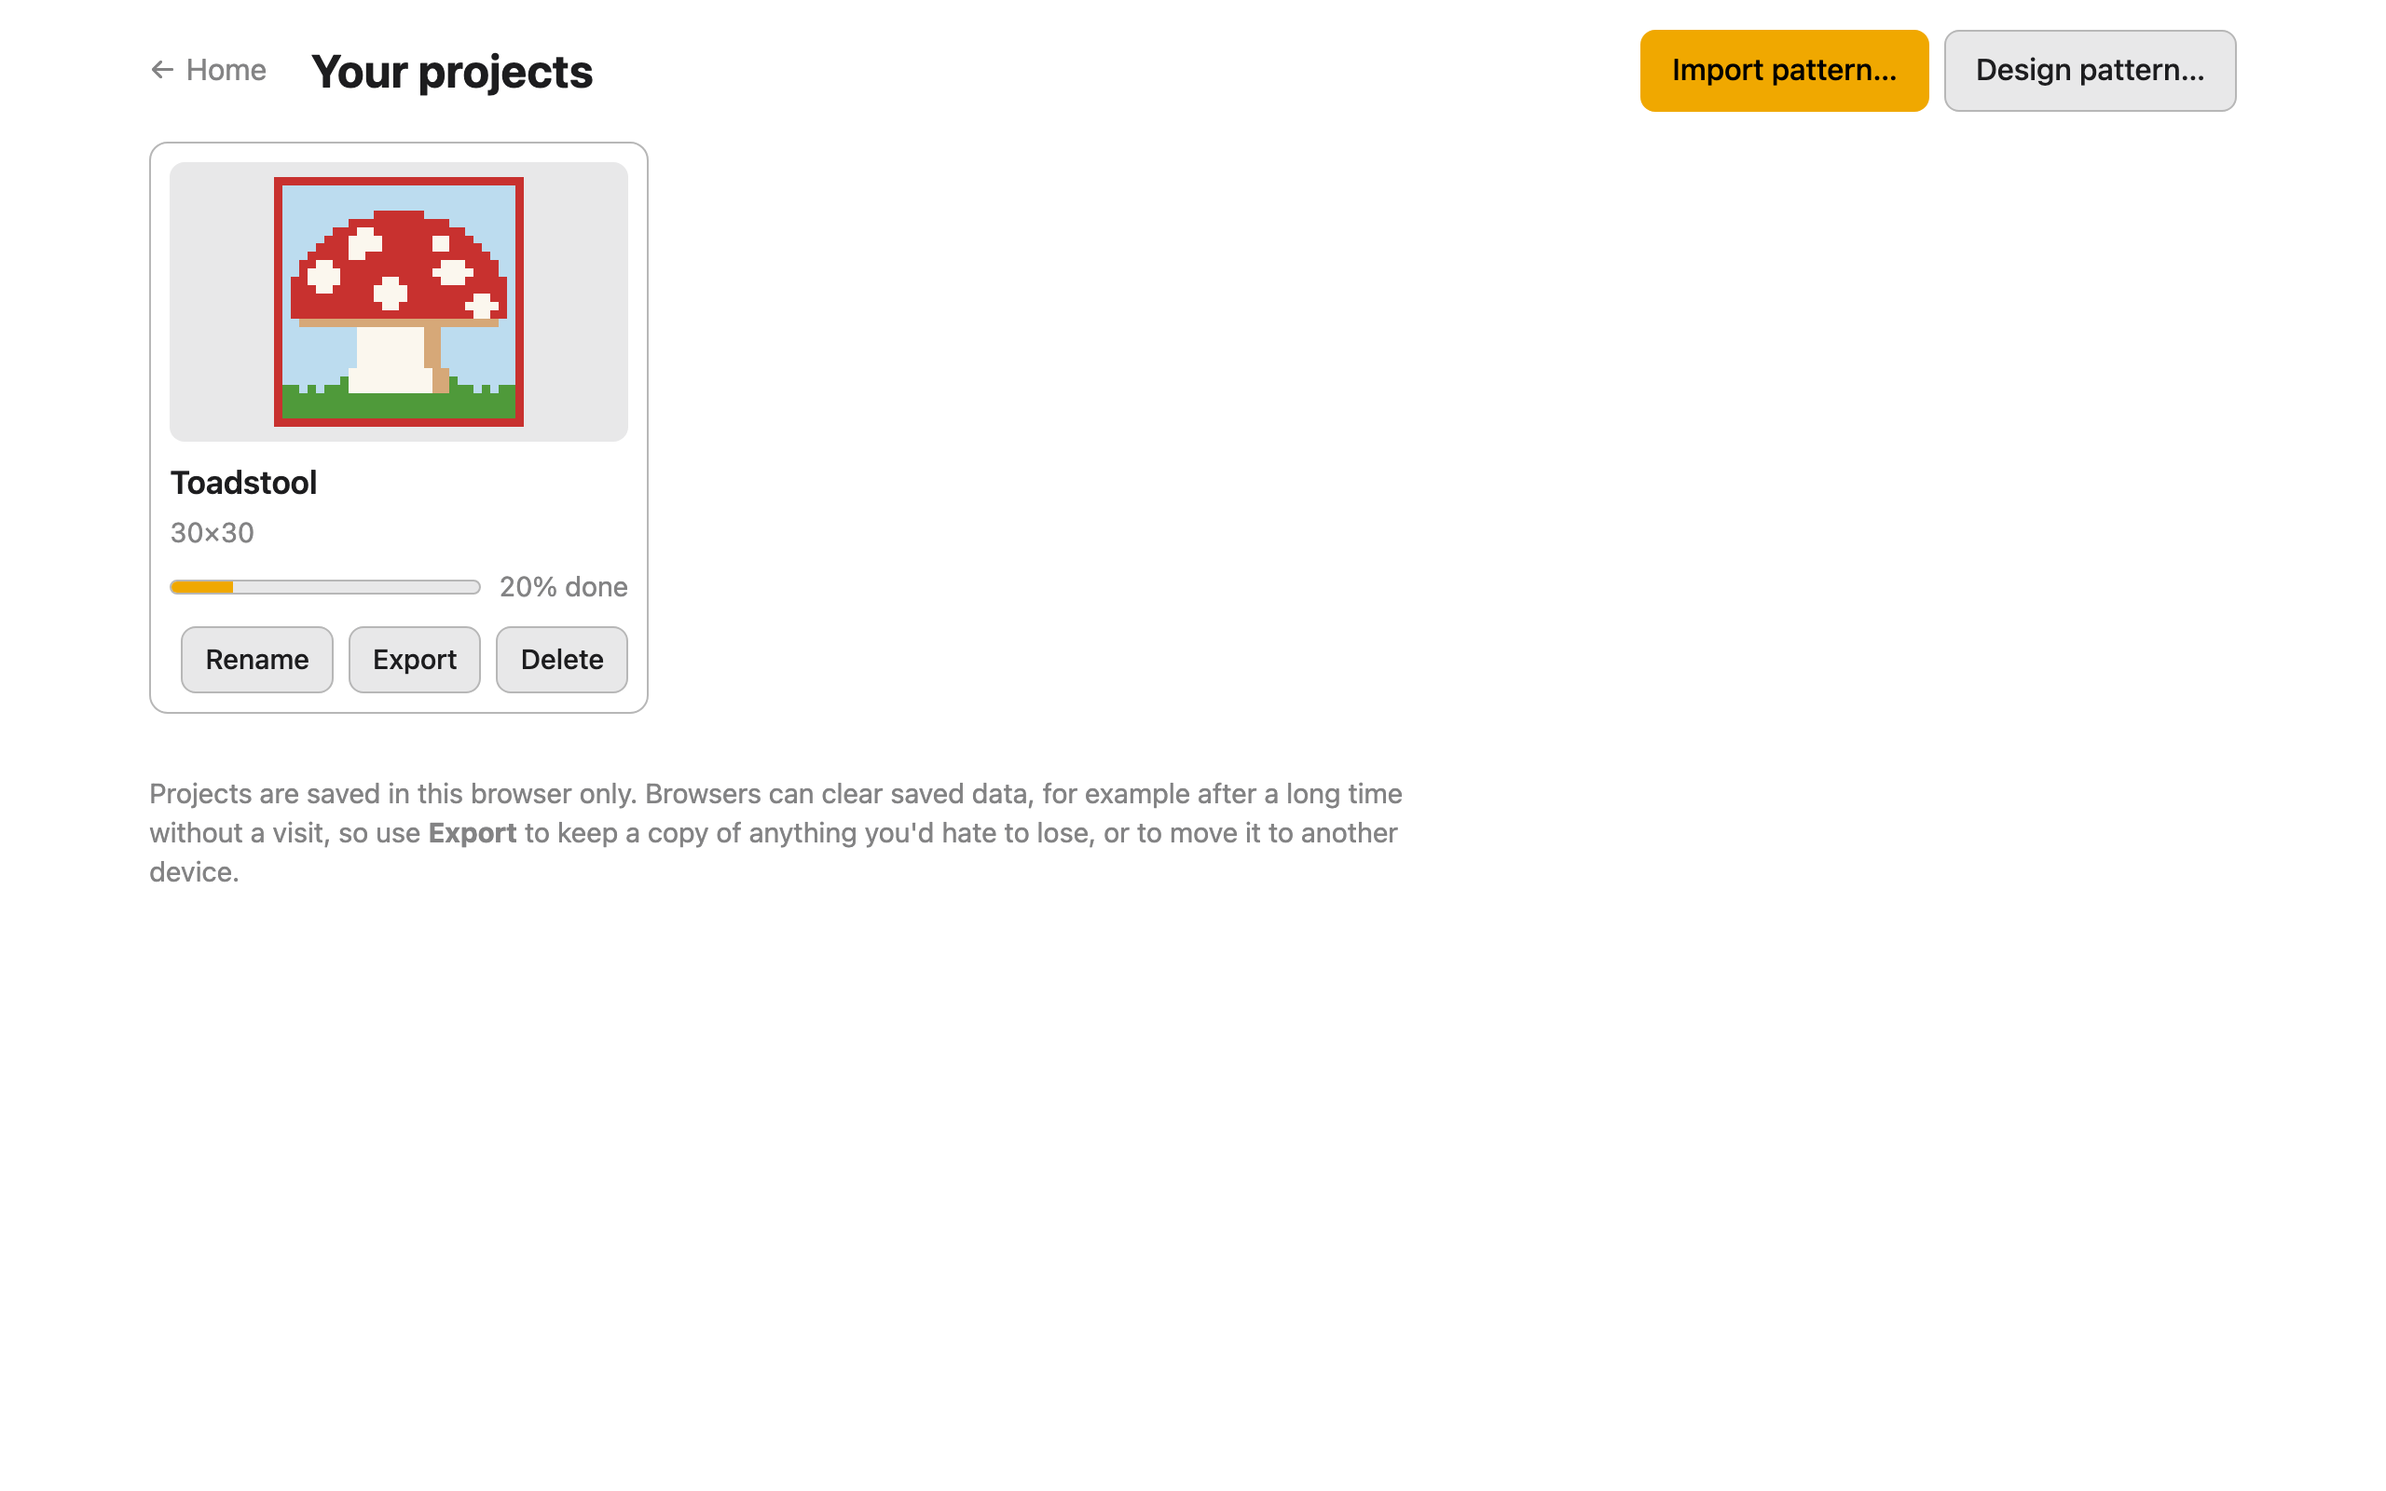
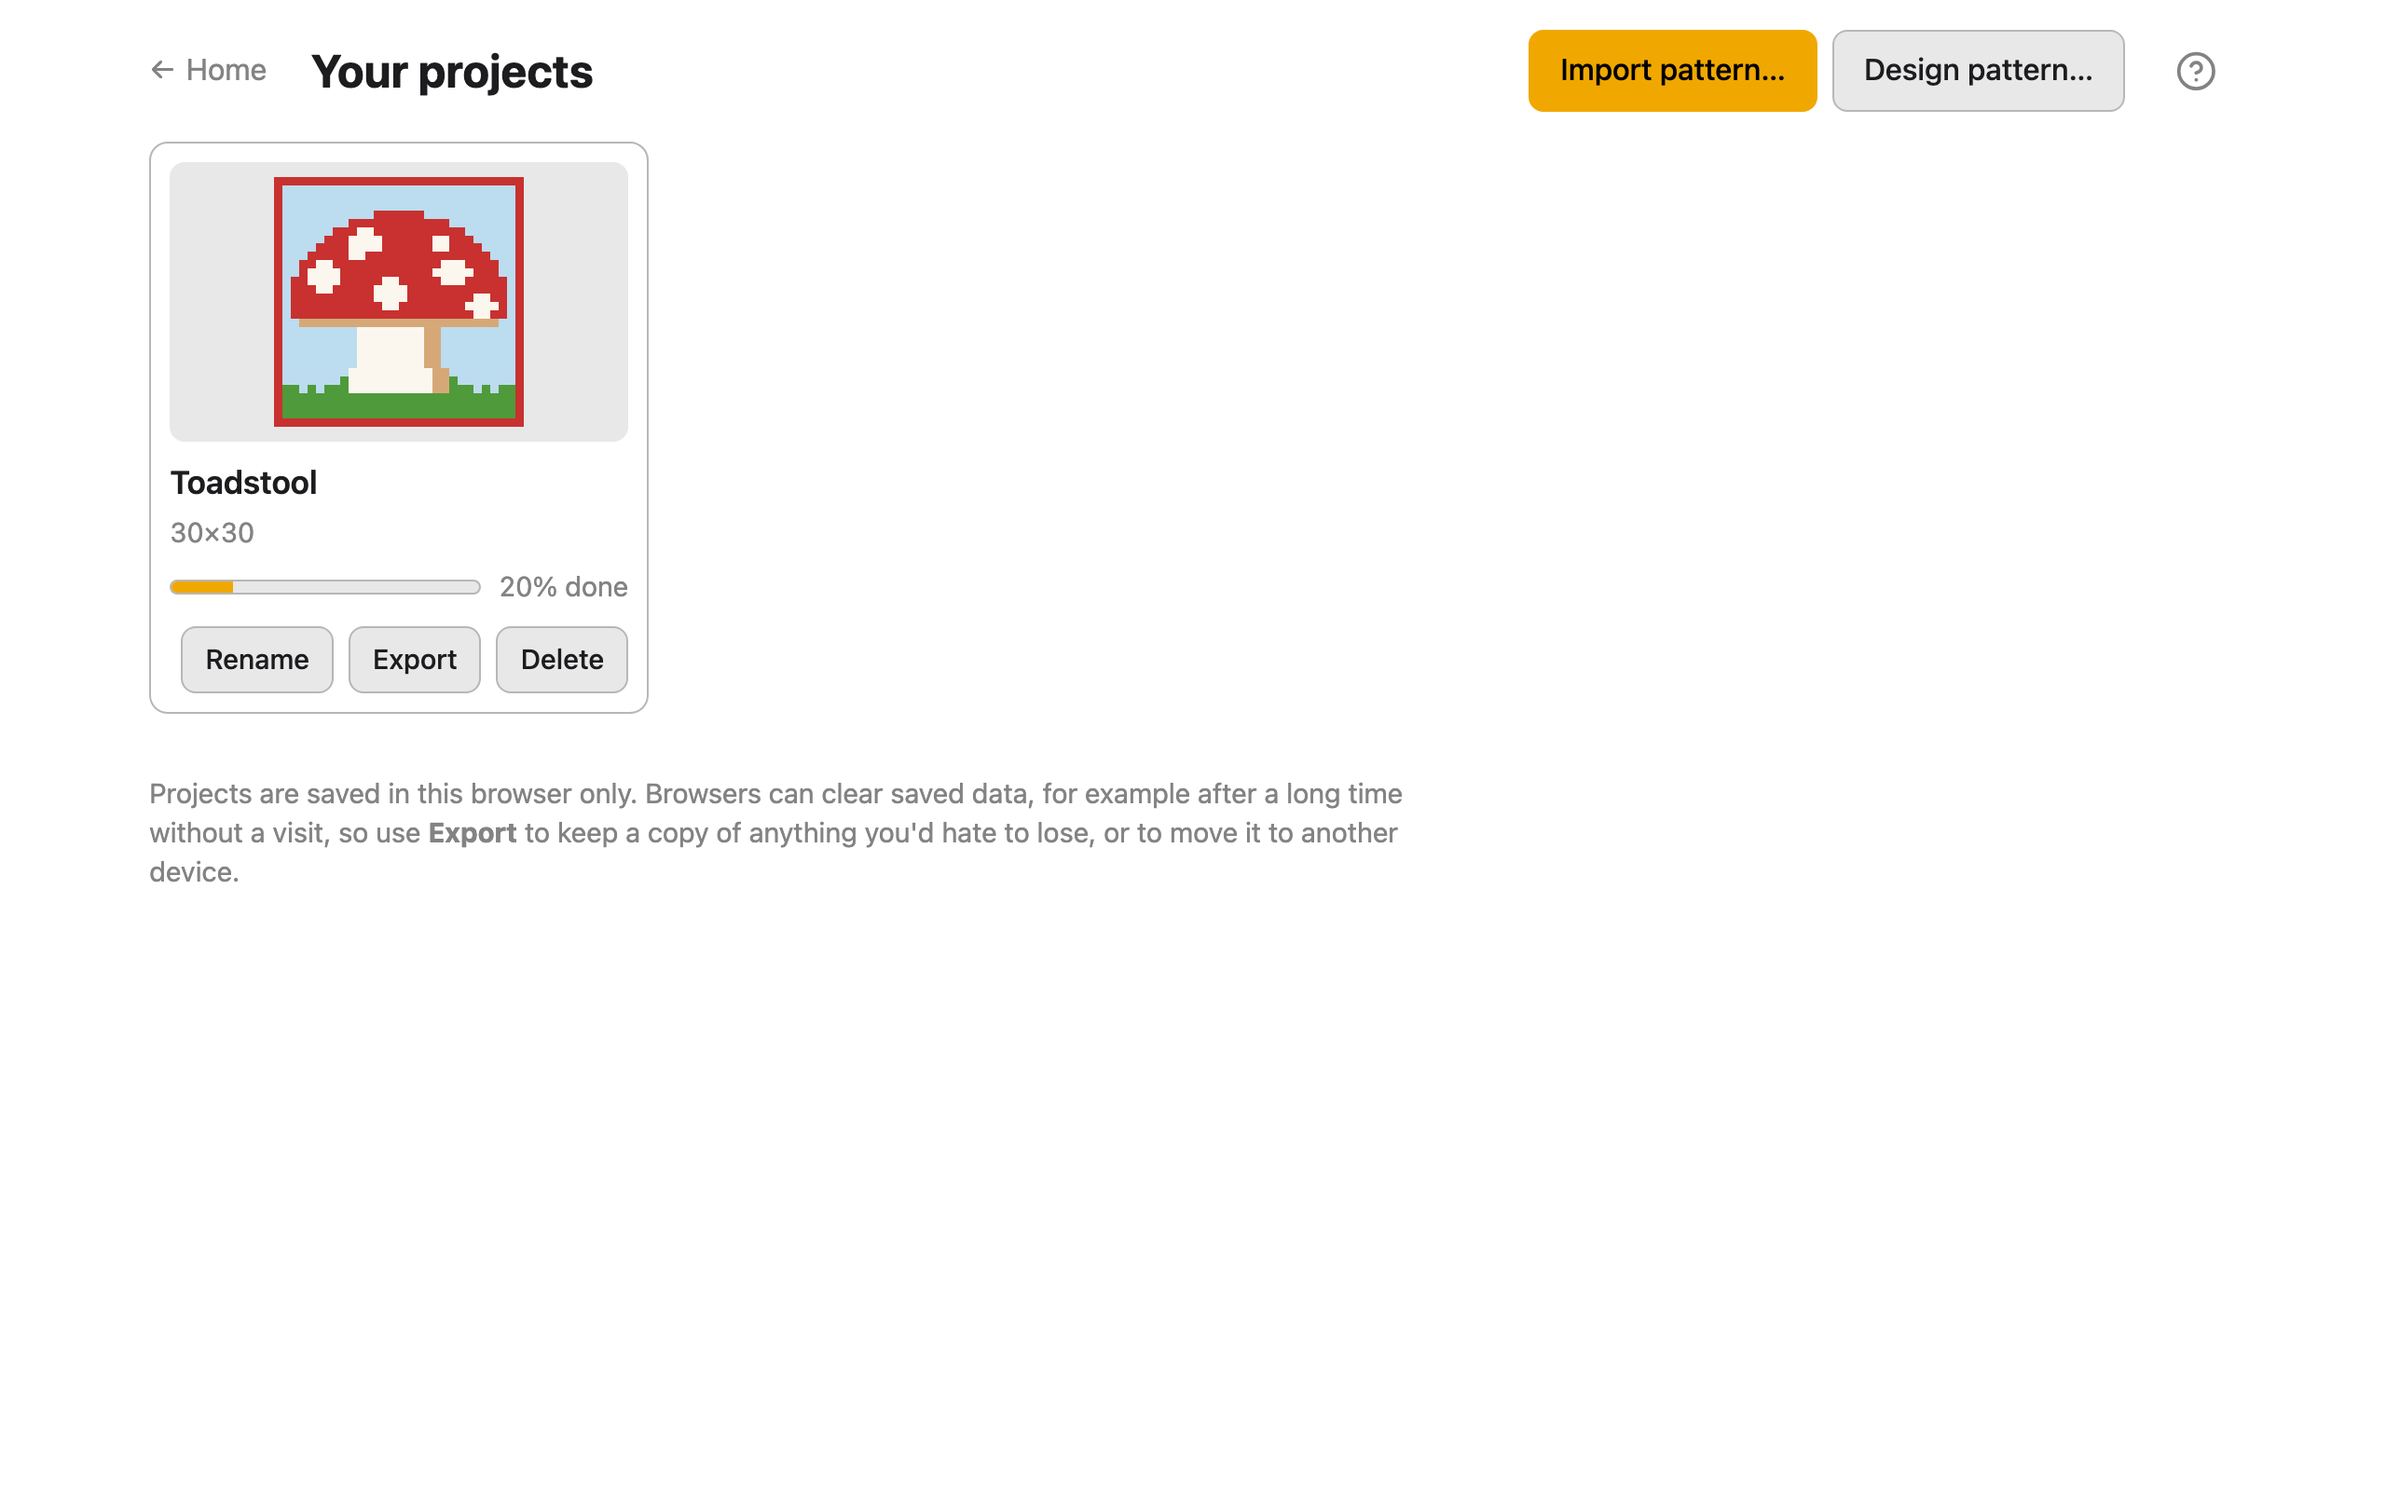
Docs: Help and About in the guide, new screenshots, plan moved on
The guide says where help is (home screen, the ? on each screen, Options
in Work on a phone), and Settings gets "Find which version you're using".
Troubleshooting asks for that version in bug reports. The screenshots are
regenerated (npm run docs:media): every screen with a header now has its
?, the home screen its Help tile, Settings its About. The area note, a rule
(link to the guide only through help.ts), web/README, the changelog and the
documentation plan record it; the plan's next step is the guide on the
website.

Changed region(s): [[0.625, 0.0, 0.9375, 0.0938]]

diff --git a/docs/documentation-plan.md b/docs/documentation-plan.md
@@ -17,7 +17,8 @@ is written) carry its rules from then on.
 | #41 | Generated screenshots and the tour: `npm run docs:media` writes `docs/guide/media/` from the demo pattern in `fixtures/demo/`. How it works is in [`guide/media/README.md`](guide/media/README.md). |
 | #43 | The README is the app's front page: the link, the tour, Import, Design and Work with a screenshot each, where projects are stored, credits. |
 | #44 | The desktop app is removed. Nothing user-facing describes it; the one thing kept is that the web app opens the `.alpha` files it saved. |
-| (this PR) | The user guide, [`docs/guide/`](guide/index.md): ten pages, one per screen, written from the code and the e2e specs. `CHANGELOG.md` seeded, the README links the guide, the guide's style rules moved into [`docs/README.md`](README.md), and `web/tests/docs.test.ts` checks every image in `docs/guide/media/` is used, and every image a page uses is one `docs-media.spec.ts` writes. |
+| #48 | The user guide, [`docs/guide/`](guide/index.md): ten pages, one per screen, written from the code and the e2e specs. `CHANGELOG.md` seeded, the README links the guide, the guide's style rules moved into [`docs/README.md`](README.md), and `web/tests/docs.test.ts` checks every image in `docs/guide/media/` is used, and every image a page uses is one `docs-media.spec.ts` writes. |
+| (this PR) | The app links to the guide: a **Help** tile on the home screen and a **?** in every header (`web/src/app/help.ts`, checked by `web/tests/docs.test.ts`); **About** in Settings with the version and commit; the README's sentence as the description; Open Graph and Twitter card tags; the Settings tile names carrying yarn; `web/package.json` is `alpha-pattern-editor` `1.0.0`. |
 
 ## Principles
 
@@ -39,27 +40,7 @@ is written) carry its rules from then on.
 - **Stable anchors.** Guide headings are tasks ("Fix a grid that's one row short"), and
   the app's help links point at them; a test checks every anchor the app links to exists.
 
-## Next: the app links to the guide
-
-- A **Help** tile on the home screen, and a small **?** in each stage's header that opens
-  that stage's guide page. `web/src/app/help.ts` holds every link; a unit test checks
-  each anchor exists in `docs/guide/`. The links point at GitHub until the guide is on
-  the website (below).
-- **About** at the bottom of Settings: the version from `package.json` and the commit it
-  was built from, with a link to "What's new", so bug reports say which build they're
-  about.
-- **The description is out of date.** `index.html`'s `<meta name="description">` and the
-  home screen's subtitle say "Follow a crochet alpha chart row by row, and keep your
-  place.", which leaves out import and design. Use the README's sentence: "Turn a photo
-  of a crochet alpha chart into a pattern you can edit and follow row by row."
-- **Link previews:** Open Graph and Twitter card tags (`og:image` a generated
-  screenshot), so a link shared in a chat or forum shows a picture.
-- **The Settings tile** says "Display preferences: row emphasis, high contrast, focus
-  mode." It also holds **Show where to carry yarn**; the tile should say so.
-- `web/package.json`: `"name": "web"`, `"version": "0.0.0"` become
-  `"alpha-pattern-editor"` and `"1.0.0"`.
-
-## Then: the guide on the website
+## Next: the guide on the website
 
 Build `docs/guide/` into static pages with **VitePress** in the same Cloudflare build,
 into `web/dist/help/`, so someone crocheting on a phone never has to go to GitHub.
@@ -82,8 +63,9 @@ never collides; every PR preview includes the guide.
   Chrome". Crocheters follow patterns on iPhones and iPads, which means Safari: adding
   Playwright's WebKit project (at least for Work and Library) would let the README say
   more.
-- **Release 1.0.0** once the guide and help links are in: the changelog section, the
-  version, a tag, a GitHub Release.
+- **Release 1.0.0** now the guide and help links are in: `web/package.json` already says
+  `1.0.0`; what's left is turning the changelog's "Unreleased" into "1.0.0" with the
+  date, a `v1.0.0` tag on `main`, and a GitHub Release.
 
 ## Decisions for the owner
 

diff --git a/docs/dev/areas/library.md b/docs/dev/areas/library.md
@@ -26,6 +26,32 @@ Newest last, as they were built.
   same as the favicon. The import screen's warnings have a drawn warning triangle
   instead of ⚠, which some systems show as a colour emoji.
 
+- <a id="help-links"></a>**The app links to the guide** (`app/help.ts`, `HelpLink` in
+  `ui/components.tsx`): a **Help** tile on the home screen (a question mark in a circle,
+  between Settings and Feedback) opens `docs/guide/index.md`, and a small **?** at the end
+  of every header (Library, Settings, Import, Design, Work) opens that screen's page.
+  They open in a new tab, so the pattern on screen stays put. On a phone the Work
+  header has no room for it (the pattern's name was cut to "Toa…"), so below 700 px it's
+  hidden there and **Options** has a **Help** link instead, at every width. Every link is
+  in `help.ts`, and `tests/docs.test.ts` checks each page and anchor exists; the guide is
+  read on GitHub until it's on the website, and then only `GUIDE_BASE` changes.
+- <a id="about"></a>**About, at the bottom of Settings**: the version from
+  `web/package.json` (now `1.0.0`; the package is `alpha-pattern-editor`, not `web`) and
+  the commit the build was made from, linked on GitHub, with **What's new** linking
+  `CHANGELOG.md`. `vite.config.ts` writes both in (`src/app/build.ts`): the commit from
+  Cloudflare's `WORKERS_CI_COMMIT_SHA`, or `git rev-parse HEAD` elsewhere, or none.
+  The guide's screenshot build sets it empty, so `settings.png` doesn't change with
+  every commit. Writing the commit into the main chunk means its hash changes on every
+  deploy, which a new deploy's `index.html` asks for anyway.
+- <a id="description"></a>**What the app says it's for**: the home screen's subtitle and
+  `index.html`'s description are the README's sentence ("Turn a photo of a crochet alpha
+  chart into a pattern you can edit and follow row by row."), and the Settings tile
+  names all four preferences, carrying yarn included. `index.html` has Open Graph and
+  Twitter card tags, so a shared link shows the Design screenshot: `vite.config.ts`
+  copies `docs/guide/media/design.png` into the build as `/social.png` (outside
+  `/assets`, so not cached for good). The tags need absolute URLs, so they name the
+  production address; a custom domain means changing them.
+
 ## During the port
 
 What each phase of the port built here, newest first. The plan each phase followed is in

diff --git a/docs/guide/settings.md b/docs/guide/settings.md
@@ -4,7 +4,7 @@ Settings are display preferences for the whole app. Open them from **Settings** 
 home screen. They're saved in this browser and apply to every project. All four also appear in the
 Work stage's **Options**, so you can change them without leaving your pattern.
 
-<img src="media/settings.png" alt="The Settings screen: four switches, each with a line saying what it does" width="700">
+<img src="media/settings.png" alt="The Settings screen: four switches, each with a line saying what it does, and About underneath" width="700">
 
 ## Make the current row easier to find
 
@@ -32,3 +32,9 @@ the stitches, and over how many. It's off to start with. See
 This isn't in Settings: it belongs to each pattern. Set it with **Start rows from the
 right** in the Work stage's **Options**
 ([which row is row 1](work.md#which-row-is-row-1-and-which-way-it-runs)).
+
+## Find which version you're using
+
+**About**, at the bottom of Settings, gives the app's version and the build it's from.
+Mention both when you report a problem. **What's new** lists what changed in each
+version.

diff --git a/docs/guide/index.md b/docs/guide/index.md
@@ -34,9 +34,10 @@ in Design, and **Options** then **Edit pattern…** in Work. Everything is saved
 there's no Save button.
 
 The home screen leads to all of it: the big **Import pattern** area, and **Library**,
-**Design pattern**, **Settings** and **Feedback** beside it.
+**Design pattern**, **Settings**, **Help** and **Feedback** beside it. **Help** opens this
+guide, and the **?** at the top of every other screen opens the page about that screen.
 
-<img src="media/landing.png" alt="The home screen: a large dashed Import pattern area on the left, and the Library, Design pattern, Settings and Feedback tiles stacked on the right" width="700">
+<img src="media/landing.png" alt="The home screen: a large dashed Import pattern area on the left, and the Library, Design pattern, Settings, Help and Feedback tiles stacked on the right" width="700">
 
 ## Import your first chart
 

diff --git a/docs/dev/rules.md b/docs/dev/rules.md
@@ -121,6 +121,9 @@ break without noticing.
 - <a id="zero-pyodide"></a>**The Work and Design stages make zero Pyodide requests.** Keeping Pyodide out of the
   Work stage is what makes the app usable on a phone, and Design has no use for it
   either since `edit.py` moved to TypeScript. Treat any regression here as a bug.
+- <a id="help-links"></a>**Link to the guide only through `src/app/help.ts`.** Renaming or moving a guide page,
+  or a heading the app links to, breaks a link nobody sees until a user taps it;
+  `tests/docs.test.ts` checks every entry in `HELP`, and only entries there.
 - <a id="known-failure"></a>**The Python suite has one known failure,** `test_edge_numbers_all_sides`: a 44×5 chart
   whose dimensions come out one column short. It's documented in `test_images/README.md`.
   Any other failure is new.

diff --git a/web/README.md b/web/README.md
@@ -112,7 +112,9 @@ files.
   as strands of yarn (`geometry.ts`), the strands rasterised as shaded tubes
   (`raster.ts`), and the fabric drawn on a canvas (`fabric.ts`). Its dialog is
   `src/ui/design/Visualize.tsx`, part of the Design stage's chunk.
-- `src/app/`: hash router, app-wide context (repository, settings), persistence request.
+- `src/app/`: hash router, app-wide context (repository, settings), persistence request,
+  every link to the user guide (`help.ts`), and the build's version and commit
+  (`build.ts`, written in by `vite.config.ts`).
 - `src/settings/`: app-wide preferences in `localStorage` (display, the colour library,
   the yarn estimate's inputs), typed and fail-safe.
 - `src/theme/`: `tokens.css` (the port of `theme.py`) and `contrastOn()`.

diff --git a/CHANGELOG.md b/CHANGELOG.md
@@ -10,3 +10,12 @@ line per change, under the release it's in.
 
 - A user guide, [`docs/guide/`](docs/guide/index.md): one page for each screen, how to do
   things in it, and what to do about the messages the app shows.
+- **Help** on the home screen opens the guide, and a **?** at the top of each screen opens
+  its page (in Work on a phone: **Options** then **Help**).
+- **About**, at the bottom of Settings: the version and build, with a link to what's new.
+- A link to the app shared in a chat or forum shows a picture of it.
+
+### Changed
+
+- The home screen says what the app is for: turn a photo of a chart into a pattern you
+  can edit and follow row by row.

diff --git a/docs/guide/troubleshooting.md b/docs/guide/troubleshooting.md
@@ -3,7 +3,8 @@
 Each problem below is a heading, with what to do about it. Most are messages the app
 shows, quoted as it shows them. If yours isn't here, or the fix doesn't work, please
 [open an issue](https://github.com/matejmojemeno/alpha-pattern-editor/issues/new) (or use
-**Feedback** on the home screen), and say which browser and device you use.
+**Feedback** on the home screen), and say which browser and device you use, and the
+version from **About** at the bottom of [Settings](settings.md#find-which-version-youre-using).
 
 ## Import messages
 

diff --git a/docs/guide/work.md b/docs/guide/work.md
@@ -83,6 +83,11 @@ While the Work stage is open, the app asks your device to keep the screen on, so
 doesn't go dark mid-row. Some browsers don't allow this, for example in a battery-saving
 mode; then the screen sleeps as usual, and your place is still saved.
 
+## Get help
+
+The **?** at the top of the screen opens this page. On a phone there isn't room for it,
+so it's **Options** then **Help**.
+
 ## Rename the pattern
 
 Open **Options** and choose **Rename…**. Type the new name, then press `Enter` to keep it
